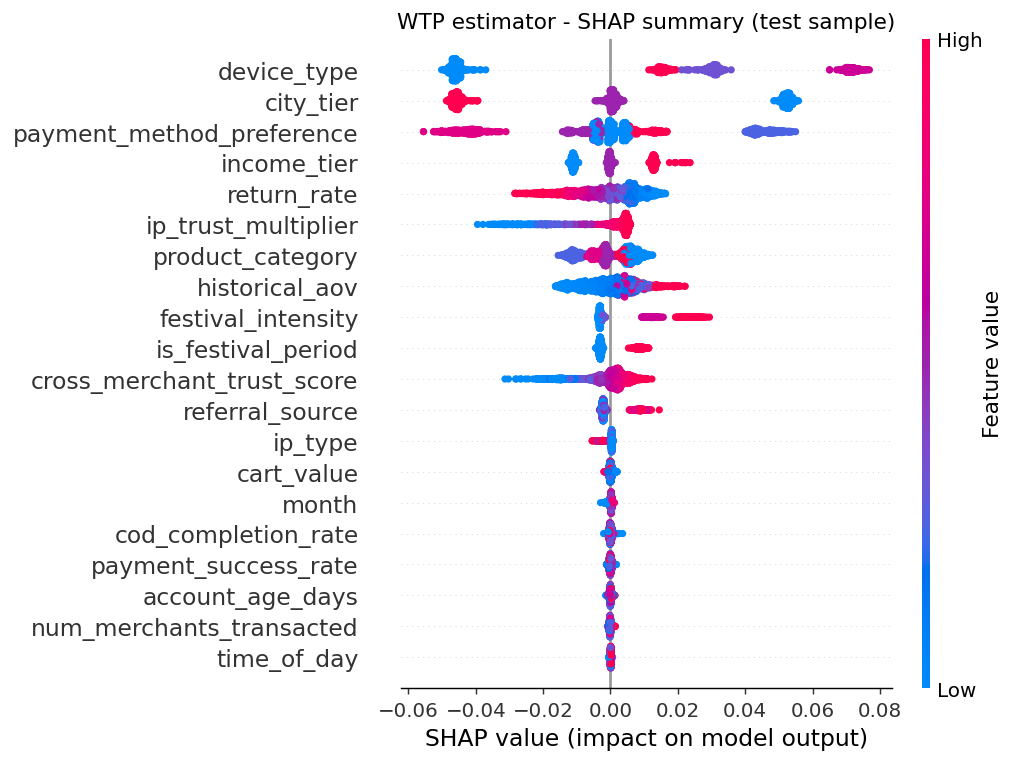
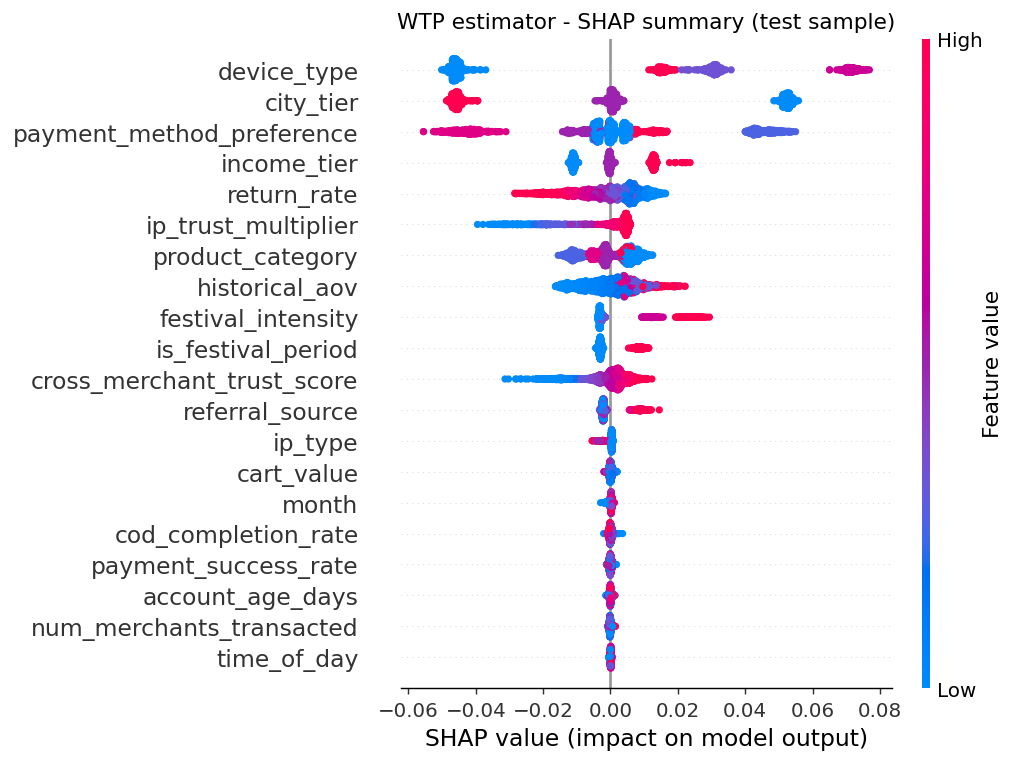
Verify full docker-compose stack end to end (14/14)
Brought the stack up in Docker and fixed what the run surfaced:

- LightGBM training hung ~20min in the Docker Desktop Linux VM (OpenMP
  oversubscription, ~1700% CPU on 16+ spinning threads). Cap threads via
  _NUM_THREADS in model/train.py (env: LGBM_NUM_THREADS/OMP_NUM_THREADS) +
  force_col_wise; seeder sets OMP_NUM_THREADS=4. Training back to ~5s.
- seed.sh: skip the data pipeline when transactions.csv already exists in the
  volume; default TRAIN_FAST=1; export BLAS/OMP thread caps.
- GET /decision/{session_id} 500'd against Postgres: asyncpg returns INET as
  ipaddress.IPv4Address which Pydantic can't serialize. Added a scalar
  normaliser that also decodes jsonb-as-text back to objects.
- docker-compose: parameterise all host ports (POSTGRES_HOST_PORT etc.) around
  a machine with 5432/3000 already bound; add OMP_NUM_THREADS to seeder+api;
  widen API CORS to the remapped dashboard port.
- model/train.py: wrap docs-plot generation in try/except (read-only /docs
  mount must not fail training).
- scripts/verify_stack.sh: new end-to-end check (health, both profiles,
  /decision, /metrics, /simulate, /enrich, dashboard, direct PG row count).
- docs/ARCHITECTURE.md "what broke" + README updated with the port/thread knobs.

Verified: postgres+redis healthy, seeder ran pipeline+training and exited 0,
api healthy, dashboard serves and renders live decisions (~24ms) against the
containerised API through CORS; 4 rows persisted in pricing_decisions.

diff --git a/model/train.py b/model/train.py
@@ -19,6 +19,7 @@ from __future__ import annotations
 
 import argparse
 import json
+import os
 import time
 from datetime import datetime, timezone
 from pathlib import Path
@@ -42,6 +43,11 @@ from . import plots
 ARTIFACTS = Path(__file__).resolve().parent / "artifacts"
 ARTIFACTS.mkdir(parents=True, exist_ok=True)
 DOCS = Path(__file__).resolve().parents[1] / "docs"
+
+# LightGBM + OpenMP oversubscribe badly inside virtualised Linux (Docker Desktop
+# on Windows): 16+ threads busy-spin on tiny per-round work and a 15s job takes
+# 20 min. Cap it. 0 = let LightGBM decide (fine on bare metal).
+_NUM_THREADS = int(os.getenv("LGBM_NUM_THREADS", os.getenv("OMP_NUM_THREADS", "0")) or 0)
 
 
 # --------------------------------------------------------------------------- #
@@ -71,6 +77,8 @@ def train_wtp(fast: bool = False) -> dict:
         "lambda_l2": 1.0,
         "verbose": -1,
         "seed": 42,
+        "num_threads": _NUM_THREADS,
+        "force_col_wise": True,
     }
     rounds = 300 if fast else 2000
     model = lgb.train(
@@ -130,15 +138,18 @@ def train_wtp(fast: bool = False) -> dict:
     # ---- load+infer timing check (<50ms requirement) ----
     _timing_check(out, sp.X_test.iloc[[0]])
 
-    # ---- plots ----
-    plots.feature_importance(model, feat)
-    if not fast:
-        sample = sp.X_test.sample(min(2000, len(sp.X_test)), random_state=0)
-        sv = explainer.shap_values(sample)
-        plots.shap_summary(sv, sample)
-    seg_df = sp.raw_test.copy()
-    seg_df["pred_wtp"] = pred
-    plots.wtp_distribution_by_segment(seg_df)
+    # ---- plots (non-critical: a read-only /docs mount must not fail training) ----
+    try:
+        plots.feature_importance(model, feat)
+        if not fast:
+            sample = sp.X_test.sample(min(2000, len(sp.X_test)), random_state=0)
+            sv = explainer.shap_values(sample)
+            plots.shap_summary(sv, sample)
+        seg_df = sp.raw_test.copy()
+        seg_df["pred_wtp"] = pred
+        plots.wtp_distribution_by_segment(seg_df)
+    except Exception as exc:  # noqa: BLE001
+        print(f"  WARN: docs plots skipped ({exc!r})")
 
     return bundle["metadata"]
 
@@ -164,6 +175,8 @@ def train_conversion(fast: bool = False) -> dict:
         "lambda_l2": 1.0,
         "verbose": -1,
         "seed": 42,
+        "num_threads": _NUM_THREADS,
+        "force_col_wise": True,
     }
     rounds = 300 if fast else 1500
     model = lgb.train(
@@ -194,8 +207,11 @@ def train_conversion(fast: bool = False) -> dict:
     joblib.dump(bundle, out, compress=3)
     print(f"  saved {out}  ({out.stat().st_size/1e6:.1f} MB)")
 
-    # conversion-lift curve uses the raw test frame
-    plots.conversion_lift_curve(sp.raw_test)
+    # conversion-lift curve uses the raw test frame (non-critical)
+    try:
+        plots.conversion_lift_curve(sp.raw_test)
+    except Exception as exc:  # noqa: BLE001
+        print(f"  WARN: conversion-lift plot skipped ({exc!r})")
     return bundle["metadata"]
 
 

diff --git a/api/main.py b/api/main.py
@@ -190,13 +190,36 @@ async def decision_endpoint(session_id: str) -> dict:
     if not rows:
         raise HTTPException(status_code=404, detail=f"no decisions for session {session_id!r}")
 
+    import decimal
+    import ipaddress
+    import json as _json
+
+    def _scalar(v):
+        if v is None or isinstance(v, (str, int, float, bool)):
+            return v
+        if isinstance(v, decimal.Decimal):
+            return float(v)
+        if isinstance(v, (ipaddress.IPv4Address, ipaddress.IPv6Address)):
+            return str(v)
+        if hasattr(v, "isoformat"):          # date / datetime
+            return v.isoformat()
+        if isinstance(v, (dict, list)):
+            return v
+        return str(v)
+
+    # asyncpg returns jsonb columns as text; decode them back to objects
+    _JSON_COLS = {"input_signals", "shap_values", "payment_methods_shown"}
+
     def _norm(r: dict) -> dict:
         d = dict(r)
         for k, v in list(d.items()):
-            if hasattr(v, "isoformat"):
-                d[k] = v.isoformat()
-            elif str(type(v)) == "<class 'decimal.Decimal'>":
-                d[k] = float(v)
+            if k in _JSON_COLS and isinstance(v, str):
+                try:
+                    d[k] = _json.loads(v)
+                    continue
+                except (ValueError, TypeError):
+                    pass
+            d[k] = _scalar(v)
         return d
 
     return {

diff --git a/docs/ARCHITECTURE.md b/docs/ARCHITECTURE.md
@@ -238,6 +238,21 @@ codebase and the cap constants are the first thing a reviewer should check
 - **SHAP display values.** Early responses showed encoded integers
   (`device_type = 2.0`) in the reasoning. `inference.py` now keeps the
   pre-encoding frame alongside the encoded one and reports the human value.
-- **Docker Desktop was not running** in the build environment, so the images
-  are defined and `docker compose config` validates, but the containers
-  themselves were verified only by running the services natively.
+- **Docker Desktop hung on startup** (corrupted emulated-socket file in
+  `%LOCALAPPDATA%\Docker\run\`). Fix: kill the Docker processes, **rename** (not
+  delete — the NTFS reparse point resists delete) the `run` dir, relaunch. Then
+  the full `docker compose` stack was built and verified end to end
+  (`scripts/verify_stack.sh` → 14/14).
+- **LightGBM training took 20 min inside the Docker Desktop Linux VM** (vs ~12 s
+  native). OpenMP oversubscription: 16+ threads busy-spinning on tiny per-round
+  work at ~1700 % CPU. Fix: cap `OMP_NUM_THREADS` / LightGBM `num_threads`
+  (`_NUM_THREADS` in `model/train.py`, `OMP_NUM_THREADS=4` in the seeder
+  service) and `force_col_wise=True`. Training dropped to ~5 s.
+- **`GET /decision/{session_id}` 500'd against Postgres** —
+  `asyncpg` returns the `INET` column as an `ipaddress.IPv4Address`, which
+  Pydantic can't serialize. Fixed with a scalar-normaliser in the endpoint that
+  also decodes `jsonb`-as-text back to objects.
+- **Host ports 5432 and 3000 were already taken** by an unrelated stack. The
+  compose host-port mappings are now env-parameterised
+  (`POSTGRES_HOST_PORT`, `DASHBOARD_HOST_PORT`, `API_HOST_PORT`,
+  `REDIS_HOST_PORT`); container-internal ports are unchanged.

diff --git a/README.md b/README.md
@@ -55,6 +55,17 @@ First boot takes a few minutes (pip install + 50 k-row generation + training).
 Later boots are fast — the seeder sees its marker file and exits immediately.
 Delete the `appdata` / `appmodels` volumes to force a re-seed.
 
+**Verified:** `bash scripts/verify_stack.sh` exercises the running stack end to
+end (health, both personalise profiles, `/decision`, `/metrics`, `/simulate`,
+`/enrich`, the dashboard, and a direct Postgres row count) — 14/14.
+
+**Host-port clashes / thread tuning** — every host port and the seeder thread
+cap are env-overridable (defaults in parentheses):
+`POSTGRES_HOST_PORT` (5432), `REDIS_HOST_PORT` (6379), `API_HOST_PORT` (8000),
+`DASHBOARD_HOST_PORT` (3000), `SEEDER_THREADS` (4), `TRAIN_FAST` (1),
+`API_THREADS` (2). Put them in `.env`. (LightGBM oversubscribes threads inside
+the Docker Desktop VM — the cap keeps training at ~5 s instead of ~20 min.)
+
 ### Local (no Docker)
 
 ```bash
